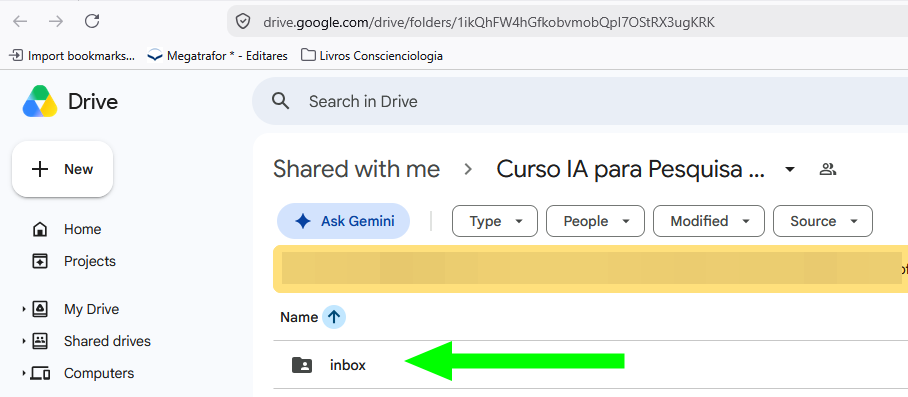
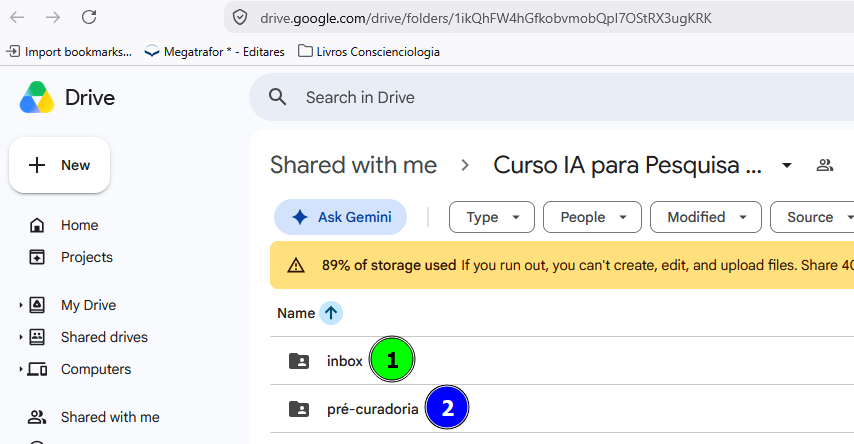
Atualiza screenshot do Inbox: agora mostra as duas pastas
A nova captura mostra inbox (①) e pré-curadoria (②) lado a lado no
Drive. Atualiza a seção da aula 0 para explicar as duas, em vez de
só o Inbox — inclui a referência de volta à aula 3, onde o formato
pré-curadoria/<identificador>/ é detalhado.

diff --git a/capacitacao/src/content/docs/cursos/curadoria-colaborativa/00-abertura.md b/capacitacao/src/content/docs/cursos/curadoria-colaborativa/00-abertura.md
@@ -33,14 +33,17 @@ e discussão               material a analisar     (com auxílio de IA)      con
 
 Cada ambiente responde a uma pergunta diferente — isso volta na próxima aula.
 
-## Onde fica o Inbox, na prática
+## Onde ficam o Inbox e a pré-curadoria, na prática
 
-O Inbox é uma pasta no Google Drive. O link para ela está fixado na **descrição do grupo de WhatsApp** do CIT/CEAEC — abra o grupo, veja os dados do grupo, e o link estará lá.
+Duas pastas no Google Drive, lado a lado. O link para elas está fixado na **descrição do grupo de WhatsApp** do CIT/CEAEC — abra o grupo, veja os dados do grupo, e o link estará lá.
 
-![Pasta "inbox" dentro da pasta compartilhada do curso no Google Drive](../../../../assets/curadoria/inbox-drive.png)
+![Pastas "inbox" (①) e "pré-curadoria" (②) dentro da pasta compartilhada do curso no Google Drive](../../../../assets/curadoria/inbox-drive.png)
+
+① **inbox** — onde entra material bruto, ainda não analisado (assunto desta aula).
+② **pré-curadoria** — onde entram as fichas já geradas, uma pasta por identificador (`pré-curadoria/CUR-AA-XXXXXX/`). Isso volta com mais detalhe na aula 3.
 
 :::tip[]
-Vale entrar na pasta agora, só para conhecer — não precisa fazer nada nela ainda. Lembre-se: colocar um material lá não é aprovação de nada, é só dizer "isto pode merecer análise" (mais sobre isso na próxima aula).
+Vale entrar nas duas pastas agora, só para conhecer — não precisa fazer nada nelas ainda. Lembre-se: colocar um material no Inbox não é aprovação de nada, é só dizer "isto pode merecer análise" (mais sobre isso na próxima aula).
 :::
 
 ## O princípio que organiza tudo
